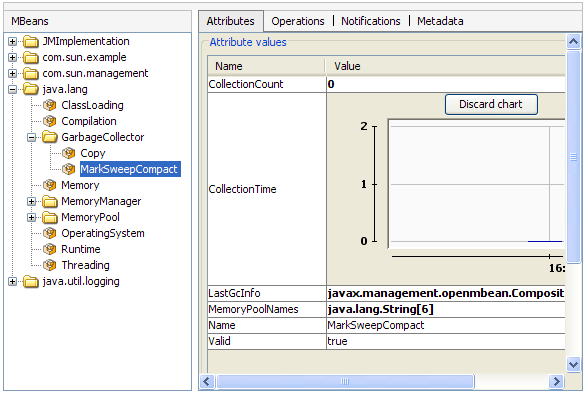
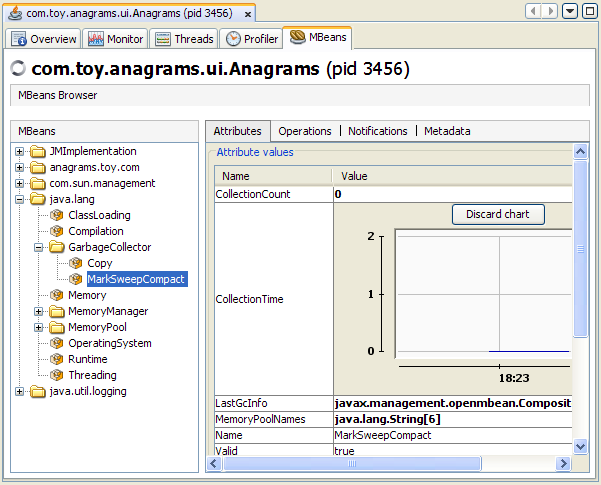
Updated screen caps to reflect final Beta 2 look and feel.

diff --git a/trunk/www/mbeans_tab.html b/trunk/www/mbeans_tab.html
@@ -57,7 +57,7 @@ com.sun.example:type=Triangle,side=isosceles,name=3</pre>
 <p>As far as the JMX technology is concerned, these objects will be  treated in exactly the same way. The order of the keys in the  object name makes no difference to the JMX technology. However, if VisualVM connects  to these MBeans and the default MBean tree rendering is used, then the  object <span class="style1">com.sun.example:type=Triangle,name=2,side=isosceles</span> will end up being created under the <span class="style1">Triangle</span> node, in a  node called <span class="style1">2</span>, which in turn will contain a sub-node called <span class="style1">isosceles</span>. The  other two <span class="style1">isosceles</span> triangles, <span class="style1">name=1</span> and <span class="style1">name=3</span>, will be grouped together under  <span class="style1">Triangle</span> in a different node called <span class="style1">isosceles</span>, as shown below.</p>
 <img src="images/docs/mbean-tree1.png" alt="Example of Unexpected MBean Tree Rendering" height="240" width="194" />
 <p>To avoid this problem, you can specify the order in which the  MBeans are displayed in the tree by supplying an ordered key property list. You can set the ordered key property list by selecting VisualVM's Tools | Options menu, and clicking on the MBeans button, as shown below.</p>
-<p><img src="images/docs/mbeans-options.png" alt="MBeans options menu" width="557" height="353" /> </p>
+<p><img src="images/docs/mbeans-options.png" alt="MBeans options menu"/></p>
 <p>The key property list system property takes a comma-separated list of keys, in  the order of your choosing, where each key must be a string representing an  object name key or an empty string. If a key specified in the  list does not apply to a particular MBean, then that key will  be discarded. If an MBean has more keys than the ones specified in  the key property list, then the key order defined by the value returned  by <span class="style1">ObjectName.getKeyPropertyListString()</span> will be used to complete the key order you define in the Ordered Key Property List field. Therefore, specifying an empty list of keys simply means that VisualVM will  display keys in the order they appear in the MBean's <span class="style1">ObjectName</span>.</p>
 <p>So, returning to the example of the Triangle MBeans cited above, you could chose configure VisualVM so that all  your MBeans will be grouped according to their <span class="style1">side</span> key property first, and  their <span class="style1">name</span> key property second. To do this, you would add the following in the Ordered Key Property List field in the MBeans tab of the Tools | Options menu: </p>
 <p><img src="images/docs/key-prop-list.png" alt="Setting the Key Property List" width="538" height="79" /></p>
@@ -81,7 +81,7 @@ com.sun.example:type=Triangle,side=isosceles,name=3</pre>
 <p>You can display additional information about an attribute by double-clicking on the attribute  value, if it appears in bold text. For example, if you click on  the value of the <span class="style1">HeapMemoryUsage</span> attribute of the <span class="style1">java.lang.Memory</span> MBean, you will  see a chart that looks something like the one shown below.</p>
 <img src="images/docs/attrib-values.png" alt="Viewing the values of MBean attributes."/>
 <p>Double-clicking on numeric attribute values will display a chart that plots changes in  that numeric value. For example, double-clicking on the <span class="style1">CollectionTime</span> attribute of the  Garbage Collector MBean  <span class="style1">MarksweepCompact</span> will plot the time spent performing garbage collection.</p>
-<p><img src="images/docs/attrib-plotting.png" alt="Plotting changes in an attribute value." width="587" height="395" /></p>
+<p><img src="images/docs/attrib-plotting.png" alt="Plotting changes in an attribute value."/></p>
 <p>You can also use VisualVM to set the values of writable attributes. The  value of a writable attribute is displayed in blue. Here you can  see the <span class="style1">Memory</span> MBean's <span class="style1">Verbose</span> attribute.</p>
 <img src="images/docs/mbean-writeable-attrib.png" alt="Setting an MBean's writable attribute value." />
 <p>You can set attributes by clicking on them and then editing them.  For example, to enable or disable the verbose tracing of the  garbage  collector in VisualVM, select the <span class="style1">Memory</span> MBean in the MBeans tab and set  the Verbose attribute to <span class="style1">true</span> or <span class="style1">false</span>. Similarly, the class loading MBean also  has a Verbose attribute, which can be set to enable or disable class  loading verbose tracing.</p>
@@ -92,7 +92,7 @@ com.sun.example:type=Triangle,side=isosceles,name=3</pre>
 <p><img src="images/docs/operation-done.png" alt="Result of performing a thread dump." width="465" height="312" /></p>
 <h2>MBean Notifications</h2>
 <p>You can subscribe to notifications from MBeans by selecting the Notifications tab, and clicking the Subscribe button at the bottom of the main pane. The  number of notifications received is displayed in square brackets, and the Notifications node  itself will appear in bold text when new notifications are received. The notifications  of the <span class="style1">AnagramsStats</span>  example MBean from the <a href="http://www.netbeans.org/kb/60/java/jmx-tutorial.html">JMX NetBeans Tutorial</a> are shown in the figure below.</p>
-<img src="images/docs/mbean-notifs.png" alt="Viewing an MBean's notifications." /><a name="gdeif" id="gdeif"></a>
+<img src="images/docs/mbean-notifs.png" alt="Viewing an MBean's notifications." />
 <h2>MBean Metadata</h2>
 <p>An MBean's metadata, or <span class="style1">MBeanInfo</span>, is displayed by the Metadata tab. This includes information like the MBean's object name, class name, a brief description,  and Descriptor information. The Metadata tab also shows the MBean's <span class="style1">MBeanAttributeInfo</span>. The Metadata tab for the <span class="style1">Memory</span> platform MBean is shown below.</p>
 <p><img src="images/docs/mbean-metadata.png" /></p>

diff --git a/trunk/www/jconsole_plugin_wrapper_tab.html b/trunk/www/jconsole_plugin_wrapper_tab.html
@@ -31,15 +31,15 @@
   <li>Now, if you highlight a running Java application, right-click, and  then select 'Open', you will see the JConsole Plugins tab in VisualVM's  right-hand window. However, no JConsole plug-ins are displayed in the tab yet, as shown below.
 <p> <img src="images/docs/jconsole-plugins-tab.png" alt="JConsole plug-in wrapper tab." width="880" height="489" /></p></li>
 
-<li>You can now import your custom JConsole plug-ins via the Tools | Options menu. </p>
-<p><img src="images/docs/options-panel.png" alt="The options panel." width="729" height="467" /></li>
+<li>You can now import your custom JConsole plug-ins via the Tools | Options menu.</li>
 <li>Click on 'JConsole Plugins'. </li>
 <li>Click on 'Add JAR/Folder' and navigate to your JConsole plug-in's Java archive (JAR) file. An example JConsole plug-in called JTop is provided with the Java SE 6 platform. The JTop application is a JDK demonstration that shows the CPU usage of all  threads running in the application. This demo is useful for identifying threads that  have high CPU consumption, and it has been updated to be used as  a JConsole plug-in as well as a standalone GUI. The  JAR file for the JTop plug-in is found <em>at <span class="style1">JDK_HOME</span></em><span class="style1">/demo/management/JTop/JTop.jar</span>, where <em><span class="style1">JDK_HOME</span></em> is the location where the JDK software is installed.
   <p><img src="images/docs/select-jconsole-plugin.png" alt="Selecting the JConsole plug-in." width="731" height="467" />    </li>
+<li>In the JConsole Plugins Options panel, you can also set the polling period. This option defines the regularity with which the JConsole tab will update the information displayed by the JConsole plug-ins displayed. 
 <li>Close the Options panel by clicking OK. 
-<li>In the main VisualVM interface,  close and then re-open the tab for the application you are monitoring. A JTop tab should now be visible in the JConsole Plugins tab.
-<p><img src="images/docs/jtop-plugin.png" alt="The JConsole plugin tab, showing the JTop plug-in." width="589" height="388" />
-<p>The JTop tab has been added, showing the CPU usage of the various threads running.
+<li>Restart VisualVM. A JTop tab should now be visible in the JConsole Plugins tab.
+  <p><img src="images/docs/jtop-plugin.png" alt="The JConsole plugin tab, showing the JTop plug-in."/>
+  <p>The JTop tab has been added, showing the CPU usage of the various threads running.  
 </ol>
 </body>
 </html>
